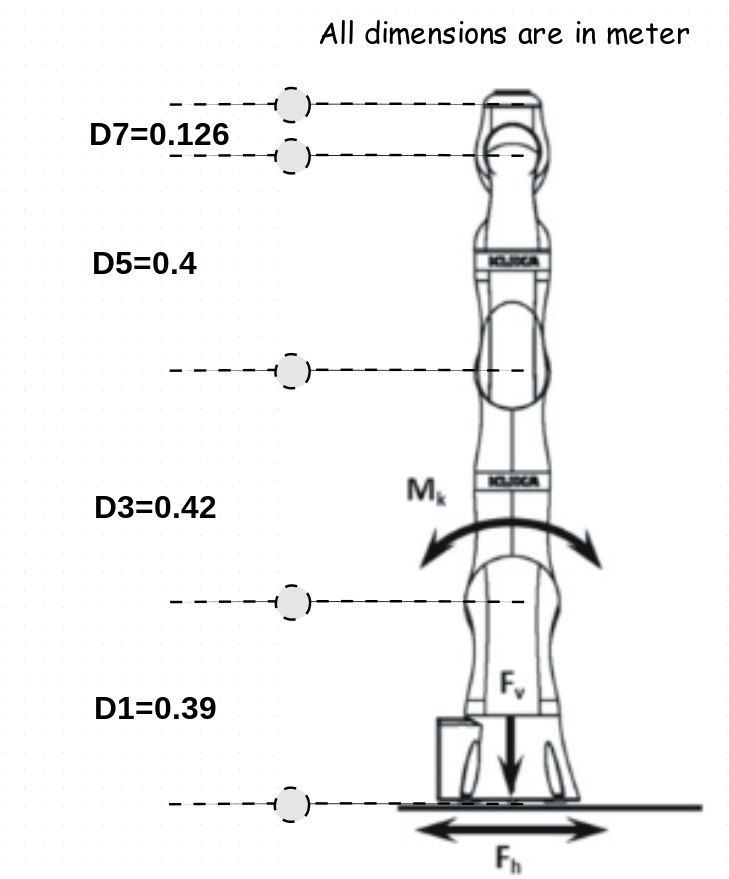
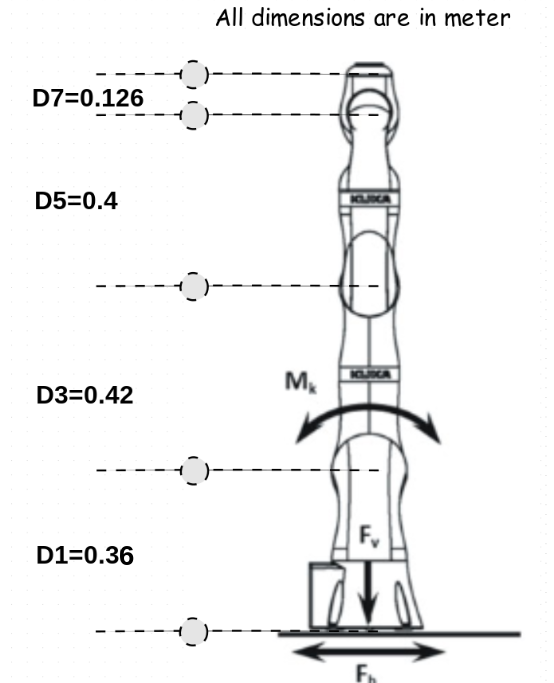
Correct the D1 value for model R820

diff --git a/main.cpp b/main.cpp
@@ -13,8 +13,8 @@ using namespace Eigen;
 #define PI 3.1415926
 
 double kukaJoints[7];
-// DH Parameters for the KUKA. Refer to Description.png
-double D1 = 0.39;
+// DH Parameters for the KUKA. Refer to Descriptions.png
+double D1 = 0.36;
 double D3 = 0.42;
 double D5 = 0.40;
 double D7 = 0.126;
